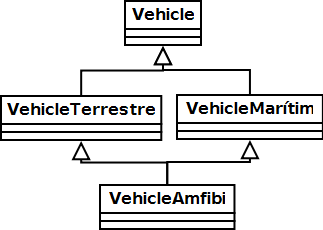
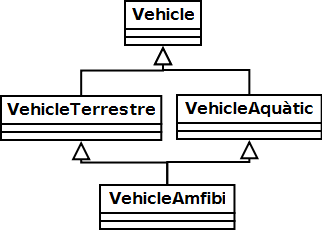
Primera revisió final.

diff --git a/memoria/introduccio.tex b/memoria/introduccio.tex
@@ -2,58 +2,81 @@
 
 Des de l'aparició dels primers videojocs, la seva evolució ha estat sempre emparellada amb una evolució tecnològica constant i, en certs punts, accelerada. Aquesta evolució tecnològica no només consta de millores en el rendiment i qualitat de cada joc sinó que, a més, s’han aconseguit generalitzar solucions i aplicar la tecnologia d’un videojoc a d'altres i fins i tot crear eines que permeten el desenvolupament de jocs a partir d'elles.
 
-Si mirem aquesta evolució des de més a prop, veiem com al principi els videojocs eren evolucions d'altres jocs típics de bar, màquines escurabutxaques com el pinball serviren d'inspiració per a crear els primers videojocs comercials, amb un model de negoci molt semblant. Posteriorment, la necessitat de crear grans quantitats de jocs va obligar als desenvolupadors a crear màquines que poguessin executar més d'un joc i així abaratir costos i finalment, amb l'arribada dels ordinadors personals i les consoles de sobretaula, es comença a desenvolupar un mercat per a jocs sobre plataformes genèriques.
+Si mirem aquesta evolució des de més a prop, veiem com al principi els videojocs eren evolucions d'altres jocs típics de bar. Màquines escurabutxaques com el pinball serviren d'inspiració per a crear els primers videojocs comercials, amb un model de negoci molt semblant. Posteriorment, la necessitat de crear grans quantitats de jocs va obligar als desenvolupadors a crear màquines que poguessin executar més d'un joc i així abaratir costos. Tot això passava sobretot a la dècada dels setanta i principis dels vuitanta. Però finalment, amb l'arribada dels ordinadors personals i les consoles de sobretaula, es comença a desenvolupar un mercat per a jocs sobre plataformes genèriques.
 
-A poc a poc van apareixent els motors gràfics - programes o mòduls encarregats del renderitzat d'un joc o d'un programa amb gràfics 2D o 3D - o fins i tot motors de joc - una plataforma per desenvolupar-hi un joc a sobre -. En un principi aquests motors s'utilitzaven dintre de la mateixa companyia que el creava. Per exemple LucarArts creà {SCUMM} ({Script Creation Utility for Manic Mansion}) \citep{WikiScumm} a l'hora que creava la seva aventura gràfica de "Point \& Click" Manic Mansion (1987). Aquest mateix programa fou utilitzat després en d'altres jocs com Indiana Jones i l'Última Creuada, LOOM, El Dia del Tentacle i tres jocs de la saga Monkey Island (fins al 1998).
+A poc a poc van apareixent els motors gràfics - programes o mòduls encarregats del renderitzat d'un joc o d'un programa amb gràfics 2D o 3D - o fins i tot motors de joc - una plataforma per desenvolupar-hi un joc a sobre -. En un principi aquests motors s'utilitzaven dintre de la mateixa companyia que el creava. Per exemple LucasArts creà {SCUMM} ({Script Creation Utility for Manic Mansion}) \citep{WikiScumm} a l'hora que creava la seva aventura gràfica de "Point \& Click" Manic Mansion (1987). Aquest mateix programa fou utilitzat després en d'altres jocs com Indiana Jones i l'Última Creuada, LOOM, El Dia del Tentacle i tres jocs de la saga Monkey Island (fins al 1998).
 
-Un pas més endavant el va dur Id Software amb el seu {\em id Tech}  \citep{WikiScumm}. Aquest motor - i les seves evolucions - no només es feu servir per fer jocs com Doom (1993) i Doom II (1994) d'Id Software, sinó que es va vendre a altres companyies per a fer altres jocs, tot i que aquests jocs serien molt semblants al Doom original, com serà el Half-Life(1998) basat en el Quake engine, una evolució de l'{\em id Tech}. Posteriorment fins i tot hi va haver companyies que basaven el seu negoci no en vendre jocs, sinó en vendre motors a altres companyies que els fessin servir; és doncs l'aparició definitiva dels motors com a Middleware.
+Un pas més endavant el va dur Id Software amb el seu {\em id Tech}  \citep{WikiScumm}. Aquest motor - i les seves evolucions - no només es feu servir per fer jocs com Doom (1993) i Doom II (1994) d'Id Software, sinó que es va vendre a altres companyies per a fer altres jocs, tot i que aquests jocs serien molt semblants al Doom original, com serà el Half-Life (1998) basat en el Quake engine, una evolució de l'{\em id Tech}. Posteriorment fins i tot hi va haver companyies que basaven el seu negoci no en vendre jocs, sinó en vendre motors a altres companyies que els fessin servir; és doncs l'aparició definitiva dels motors com a Middleware.
 
-Paral·lelament a l'evolució tecnològica ja esmentada, la metodologia de desenvolupament i els mateixos llenguatges de programació han anat evolucionant. L'evolució més important fou quan es va passar de programar bàsicament en {\bf C} a {\bf C++}. El canvi de paradigma, però, s'ha demostrat difícil i, tot i que l'ús de la metodologia orientada a objectes és predominant a quasi totes les àrees d'un motor, encara n'hi ha alguna on porta problemes.
-
-El cas més important, i el que en aquest treball ens centrarem és en la definició de la lògica d'un joc.
-
-\section{Evolució en les mecàniques dels jocs}
-
-Les lògiques dels jocs, també conegudes com a mecàniques, són les normes que defineixen els jocs. Aquestes normes estan compostes per diversos elements, que interactuen entre ells de forma més o menys complexa. En aquesta secció explicarem l'evolució que han anat prenent els mètodes que tenen els desenvolupadors per a definir aquestes normes; des d'una aproximació jeràrquica i intuïtiva, agrupant els elements per característiques comunes, fins a una de menys intuïtiva, però més flexible, on cada comportament es defineix de forma independent i cada element agafa aquells comportaments que li interessen.
-
-\subsection{L'aproximació clàssica}
-
-Quan un programador de {C++} o de qualsevol llenguatge orientat a objectes s'asseu davant el desafiament de programar la lògica d'un joc, trenca els diferents objectes que el poblen i els distribueix en diferents grups i subgrups, després en programa les funcionalitats comunes i acaba creant una jerarquia de classes que defineixen tots els objectes i les seves interrelacions. 
-
-Aquesta aproximació sembla senzilla, però acaba comportant diversos problemes. Com s'explica a \citep[p.~719]{Gregory09}, les jerarquies massa grans d'objectes pateixen dels següents inconvenients:
+Paral·lelament a l'evolució tecnològica ja esmentada, la metodologia de desenvolupament i els mateixos llenguatges de programació han anat evolucionant. L'evolució més important fou quan es va passar de programar bàsicament en {\bf C} a {\bf C++}. El canvi de paradigma, però, s'ha demostrat difícil i, tot i que l'ús de la metodologia orientada a objectes és predominant a quasi totes les àrees d'un motor, encara n'hi ha alguna on s'ha demostrat no ser la millor solució. A la figura \ref{fig:EsquemaEngine} es mostren algunes parts d'un {\em Engine} i com el módul de lògica usa els altres. D'aquesta manera un pot imaginar-se un {\em Engine} com a un proveïdor de serveis per al módul de lògica.
 
 
 \begin{figure}
   \centering
-  \includegraphics[width=0.58\linewidth]{./img/RombeMort.png}
-  \caption{Diamant de la mort \label{fig:RombeMort}}
+  \includegraphics[width=0.58\linewidth]{./img/EsquemaEngine.png}
+  \caption{Esquema genèric d'un Engine \label{fig:EsquemaEngine}}
 \end{figure}
 
+L'àmbit on més canvis hi ha hagut, en quan a metodologia de desenvolupament, i el que en aquest treball ens centrarem és en la definició de la lògica d'un joc. Les lògiques dels jocs, també conegudes com a mecàniques, són les normes que defineixen els jocs. Aquestes normes estan compostes per diverses peçes: elements interactius i no interactius (com l'escenari del joc, els personatges, {\em attrezzo}, i altres), accions que poden fer els elements interactius i els objectius que té el jugador.
+
+En aquest capítol s'explicarà primer l'evolució històrica en quan a programació de la lògica dels jocs. Seguidament agafarem la mostra que volem implementar i la definirem, i es mostraran alguns exemples de jocs i {\em Engines} que han implementat solucions semblants. Finalment s'esmentaràn els objectius d'aquest projecte.
+
+\section{Evolució en les mecàniques dels jocs}
+
+ En aquesta secció s'explicarà l'evolució que han anat prenent els mètodes que tenen els desenvolupadors per a definir aquestes normes; des de l'aproximació clàssica, jeràrquica i intuïtiva, agrupant els elements per característiques comunes, seguida d'un replantejament estructural, on se segueix una arquitectura menys intuitiva, però més flexible, sense definir jerarquies de elements, amb característiques comunes, sinó definint cada característica per separat i després deixant que cada element agrupi les que necessita. I finalment presentant una arquitectura que trenca per complet l'aproximació clàssica sense deixar de ser una evolució del pas anterior.
+
+\subsection{L'aproximació clàssica}
+
+Quan un programador de {C++} o de qualsevol llenguatge orientat a objectes s'asseu davant el desafiament de programar la lògica d'un joc, llista les diferents entitats del joc (escenari, jugador, enemics, armes, etc\ldots) i els distribueix en diferents grups i subgrups. Després en programa les funcionalitats comunes i acaba creant una jerarquia de classes que defineixen totes les entitats i les seves interrelacions. 
+
+Aquesta aproximació sembla senzilla, però acaba comportant diversos problemes. Com s'explica a \citep[p.~719]{Gregory09}, les jerarquies de classes massa grans pateixen dels següents inconvenients:
+
+
+
+
 \begin{itemize}
-  \item {\bf Manteniment} \hfill \\
-    A més profunda és una classe dintre d'una jerarquia, més costa d'entendre, mantenir i modificar, ja que s'ha d'entendre tant ella com totes les seves classes superiors. Així com modificar una classe mare pot comportar problemes  a classes derivades molt difícils de detectar i arreglar.
+  \item {\bf Manteniment:} A més profunda és una classe dintre d'una jerarquia, més costa d'entendre, mantenir i modificar, ja que s'ha d'entendre tant ella com totes les seves classes superiors. Per exemple el fet de modificar una funció virtual aparentment inocua, pot comportar trencar suposicions que faci alguna de les classes mare, cosa que du a errors subtils i difícils de detectar.
     
-  \item {\bf Impossibilitat de descriure taxonomies multi-dimensionals} \hfill \\
-    Crear classes en forma d'arbre és molt pràctic i sobretot intuïtiu, especialment on a cada nivell es fan separacions respecte un criteri per cada nivell. El problema seriós arriba quan ens trobem amb classificacions que no havíem previst inicialment. Per exemple podríem haver classificat 2 tipus de vehicles: vehicles terrestres i marítims, per posteriorment haver d'afegir vehicles amfibis, repte que ens porta als 2 següents punts.
+  \item {\bf Impossibilitat de descriure taxonomies multi-dimensionals:} Crear classes en forma d'arbre és molt pràctic i sobretot intuïtiu, especialment on a cada nivell es fan separacions respecte un criteri per cada nivell. Inicialment, ens plantejem una llista de grups a classificar: Vehicles contra Animals, Terrestres contra Marítims, etc\ldots Aqui se'ns obra el primer dilema: Classifiquem primer entre animals i vehicles, o entre terrestres o marítims? Però el problema seriós arriba quan ens trobem amb classificacions que no havíem previst inicialment. Per exemple podríem havent classificat vehicles terrestres i acuàtics (figura \ref{fig:Vehicles}), i posteriorment podem haver d'afegir vehicles amfibis, repte que es pot intentar solucionar de les següents maneres:
+  
+  \begin{figure}
+    \centering
+    \includegraphics[width=0.58\linewidth]{./img/Vehicles.png}
+    \caption{Vehicles classificats en terrestres i aquàtics \label{fig:Vehicles}}
+  \end{figure}
+  
     \begin{enumerate}
-      \item {\bf Herència múltiple. El diamant de la mort} \hfill \\
-        La solució naïf del problema anterior seria crear la classe {\em VehicleAmfibi} hereva tant de {\em VehicleTerrestre} com de {\em VehicleMarítim}, cosa que ens porta directament a l'herència múltiple. Com s'explica a \cite[p.~2]{Martin97}, l'herència múltiple causa diversos problemes, moltes vegades més grans que aquells que soluciona. En aquest cas veuríem que la classe {\em VehicleAmfibi} heretaria dues vegades {\em Vehicle}, amb els problemes d'ambigüitat que això duria (figura \ref{fig:RombeMort}).
+      \item {\bf Crear una nova classe hereva de vehicle \"{}VehicleAmfibi\"{}:} Solució òptima a primer cop d'ull, però comporta duplicar codi, ja que el codi necessàri per fer que un vehicle vagi per terra ja es troba a {\em VehicleTerrestre}, per exemple. Això ens du a intentar la segona solució.
+      
+      \item {\bf Herència múltiple. El diamant de la mort:} La solució naïf del problema anterior seria crear la classe {\em VehicleAmfibi} hereva tant de {\em VehicleTerrestre} com de {\em VehicleAquàtic}, cosa que ens porta directament a l'herència múltiple. Com s'explica a \cite[p.~2]{Martin97}, l'herència múltiple causa diversos problemes, moltes vegades més grans que aquells que soluciona. Per exemple en aquest cas veuríem que la classe {\em VehicleAmfibi} heretaria dues vegades {\em Vehicle}, amb els problemes d'ambigüitat que això duria (figura \ref{fig:RombeMort}).
         
-      \item {\bf Classes Mix-in} \hfill \\
-        Una altra solució per crear taxonomies multi-dimensionals és crear un seguit de classes que aportin funcionalitat a diversos llocs de la jerarquia. Aquestes classes, per funcionar bé, cal que siguin heretades només per les fulles i que cap d'elles tingui una classe mare. Per tant diríem que una classe només pot tenir un "avi" en qualsevol cas. Aquesta solució comporta, sobretot, molta disciplina i acaba resultant en una solució molt semblant a "agregar" funcionalitat en comptes d'heretar-la.
         
+      \begin{figure}
+        \centering
+        \includegraphics[width=0.58\linewidth]{./img/RombeMort.png}
+        \caption{Diamant de la mort \label{fig:RombeMort}}
+      \end{figure}
+        
+      \item {\bf Classes Mix-in:} Una altra solució per crear taxonomies multi-dimensionals és crear un seguit de classes que aportin funcionalitat a diversos llocs de la jerarquia. Aquestes classes, per funcionar bé, cal que siguin heretades només per les fulles i que cap d'elles tingui una classe mare. Per tant diríem que una classe només pot tenir un "avi" en qualsevol cas. Aquesta solució comporta, sobretot, molta disciplina i acaba resultant en una solució molt semblant a "agregar" funcionalitat en comptes d'heretar-la (figura \ref{fig:MixIn}).
+        
+      \begin{figure}
+        \centering
+        \includegraphics[width=0.58\linewidth]{./img/MixIn.png}
+        \caption{Esquema amb classes \"{}Mix-In\"{} \label{fig:MixIn}}
+      \end{figure}
     \end{enumerate}
-  \item {\bf Efecte bombolla} \hfill \\
-    A l'inici del disseny, les classes arrels - les més pròximes a l'inici de la jerarquia - són dissenyades inicialment amb poca funcionalitat. A mesura que avança el projecte, i davant del desig de compartir codi i, sobretot, no duplicar-lo, molta funcionalitat va pujant a la jerarquia fins que troba el \"{}comú denominador\"{}. A poc a poc, les classes arrels es van fent pesades fins que contenen la major part de funcionalitat, que les seves filles s'han d'encarregar d'activar correctament. Col·lateralment això fa que moltes classes acabin tenint una funcionalitat i unes variables que realment no necessiten, fent que el programa usi més memòria de la necessària, un problema especialment greu en jocs de consola, on la memòria és un bé molt escàs.
     
+  \item {\bf Efecte bombolla:} A l'inici del disseny, les classes arrels - les més pròximes a l'inici de la jerarquia - són dissenyades inicialment amb poca funcionalitat. A mesura que avança el projecte, i davant del desig de compartir codi (i sobretot, no duplicar-lo), molta funcionalitat va pujant a la jerarquia fins que troba el \"{}comú denominador\"{}. A poc a poc, les classes arrels es van fent pesades fins que contenen la major part de funcionalitat, que les seves filles s'han d'encarregar d'activar correctament. Col·lateralment això fa que moltes classes acabin tenint una funcionalitat i unes variables que realment no necessiten, fent que el programa usi més memòria de la necessària, un problema especialment greu en jocs de consola, on la memòria és un bé molt escàs.
+    
+    
+  
 \end{itemize}
 
-Per a més informació sobre els defectes d'aquesta estructura, consultar \cite{Wilson02}.
+Per a més informació sobre els defectes de l'aproximació clàssica, consultar \cite{Wilson02}.
 
 \subsection{De l'{\em és-un} al {\em conté-un}}
 
-
-La primera millora, o petit canvi, que es proposa respecte l'aproximació anterior, és agregar la funcionalitat en comptes d'heretar-la. Si volem crear un objecte amb moviment, que es renderitzi, que col·lisioni i que s'animi - un enemic, per exemple -, abans heretaríem d'una jerarquia on, més amunt o més avall, estigui implementada tota aquesta funcionalitat (figura \ref{fig:EnemicHerencia}). Ara, però, el que hauríem de fer és simplement crear un seguit de propietats a la classe {\em Enemic} que apuntin a instàncies d'altres classes que ens aportin cada una la funcionalitat que busquem (figura \ref{fig:EnemicAgregacio}).
+La primera millora, o petit canvi, que es proposa respecte l'aproximació anterior, és agregar la funcionalitat en comptes d'heretar-la. Si es vol crear un objecte amb moviment, que es renderitzi, que col·lisioni i que s'animi - un enemic, per exemple -, en l'aproximació clàssic la classe que representa aquest objecte heretaría d'una jerarquia on, més amunt o més avall, estigui implementada tota aquesta funcionalitat (figura \ref{fig:EnemicHerencia}). La millora proposada consta de fer que aquesta classe contingui aquelles que ens aportin cada una la funcionalitat que busquem (figura \ref{fig:EnemicAgregacio}).
 
 \begin{figure}
   \centering
@@ -65,73 +88,89 @@ La primera millora, o petit canvi, que es proposa respecte l'aproximació anteri
 
 Dintre d'aquest esquema, les classes que aporten funcionalitat són moltes vegades anomenades {\em Components} o {\em objectes-servidors}, ja que són les que componen els objectes finals.
 
-Aquesta aproximació millora en certs aspectes l'anterior, però encara té alguns inconvenients. Es tendeix a tenir una classe {\em GameObject} amb un punter a cada tipus de component, al qual se li afegeixen o treuen els components segons convingui - un {\em Enemic} contindrà el component {\em ObjecteAnimat} mentre que una {\em Habitació} no -; cosa que comporta primer el problema de qui s'ha d'encarregar de destruir els components - evident fins que arribes al punt que vols substituir un component en temps d'execució - i després la pèrdua d'eficiència que comporta haver de comprovar constantment si una instància conté o no cada component per fer-ne operacions.
+Aquesta aproximació millora en certs aspectes l'anterior, com es mostra més endavant a la taula \ref{tab:comparacioFilosofies}, però encara té alguns inconvenients. Es tendeix a tenir una classe {\em GameObject} amb un punter a cada tipus de component, al qual se li afegeixen o treuen els components segons convingui - un {\em Enemic} contindrà el component {\em ObjecteAnimat} mentre que una {\em Habitació} no -; cosa que comporta primer el problema de qui s'ha d'encarregar de destruir els components - evident fins que arribes al punt que vols substituir un component en temps d'execució - i després la pèrdua d'eficiència que comporta haver de comprovar constantment si una instància conté o no cada component per fer-ne operacions.
 
 Un pas més enllà es troba l'aproximació on cada tipus de {\em Component} implementa una interfície comuna molt bàsica i després el {\em GameObject} simplement conté un array dinàmic que els conté tots, i crida les seves funcions ordenadament. Aquesta aproximació comporta sovint el problema de que els components cal ordenar-los, ja que moltes vegades la seva funcionalitat no és commutativa.
 
-Un últim pas en aquesta línia és eliminar per complet el {\em GameObject} i tenir arrays de components i lligar-los simplement per l'índex; Arrays o una implementació menys costosa en memòria com Taules Hash. Aquesta aproximació sovint anomenada com a {\em Model de Components Pur} guanya sobretot en coherència de cachè. Normalment tots els components d'un tipus s'actualitzen alhora, en estar tots en un array seguits, els {\em misses} de cachè són mínims.
+Un últim pas en aquesta línia és eliminar per complet el {\em GameObject} i tenir arrays de components i lligar-los simplement per l'índex; Arrays o una implementació menys costosa en memòria com Taules Hash. Aquesta aproximació sovint anomenada com a {\em Model de Components Pur} \citep{Martin07} guanya sobretot en localitat de memòria. Normalment tots els components d'un tipus s'actualitzen alhora, en estar tots seguits en un array, el programa troba totes les dades juntes i s'executa més ràpidament que si les dades estiguéssin dispersades.
 
 Finalment, un gran avantatge d'un sistema d'aquest tipus és, com s'explica a \citep{Leonard99}, la possibilitat de, un cop definits els tipus de components i les seves propietats, crear un \"{}editor del joc\"{} que permeti, amb l'ajuda d'una interfície gràfica, crear, manipular, modificar, afegir, treure, etc. objectes i components del món de forma molt senzilla. Una eina d'aquestes característiques disminueix la dependència que hi ha entre dissenyadors i programadors i permet que cada un d'ells pugui fer la seva feina en paral·lel de la forma més eficient possible.
 
 \subsection{De centrar-nos en els objectes, a centrar-nos en les propietats}
 
-L'últim pas, que abstreu totes les idees anteriorment exposades, és trencar totalment l'esquema orientat a objectes. La clau aquí és oblidar que un objecte està format per un seguit de propietats i mètodes, i quedar-se només amb les propietats. D'aquesta manera podem crear una taula per cada tipus de component que un objecte del joc pot tenir, i fer-ne una columna per cada propietat i una fila per cada objecte que el contingui, tenint cada objecte del joc, el que abans coneixíem com un {\em GameObject}, un identificador únic.
+L'últim pas, que abstreu totes les idees anteriorment exposades, és trencar totalment l'esquema orientat a objectes. Aquest canvi s'inspira en part en l'arquitectura Model-Vista-Controlador. Concretament n'agafa el concepte de que cal separar les dades de la lògica que les controla. Si en féssim una base de dades hauríem de primer llistar tots els tipus de propietats que una entitat del joc pot tenir; de cada element d'aquesta llista l'anomenarem {\bf Component}, ja que les esmentades entitats seràn formades a partir d'aquests. D'aquesta manera podem crear una taula per cada tipus de component que una entitat del joc pot tenir, i fer-ne una columna per cada propietat i una fila per cada objecte que el contingui, tenint cada objecte del joc, el que abans coneixíem com un {\em GameObject}, un identificador únic.
 
-Aquesta aproximació no està pas mancada de defectes, i cal tenir-los en compte. El primer d'ells és la dificultat que hi ha d'establir relacions entre les {\em entitats} del joc, ja que no existeix una implementació en sí, d'aquesta entitat. Relacionat amb això hi ha el problema d'inicialitzar aquestes {\em entitats}, que s'ha de fer d'una forma més o menys aliena al mateix sistema. Finalment, el dilema més gran, és decidir on es programa el comportament de les entitats, i hi ha bàsicament 2 solucions, amb les seves variants:
+Aquesta aproximació no està pas mancada de defectes, i cal tenir-los en compte. El primer d'ells és la dificultat que hi ha d'establir relacions entre les {\em entitats} del joc, ja que no existeix una implementació en sí, d'aquesta entitat. Relacionat amb això hi ha el problema d'inicialitzar aquestes {\em entitats}, que s'ha de fer d'una forma més o menys aliena al mateix sistema. Finalment, el dilema més gran, és decidir on es programa el comportament de les entitats. Hi ha bàsicament 2 solucions, amb les seves variants:
 
 \begin{enumerate}
-  \item {\bf Dintre els mateixos components} \hfill \\
-    Cada propietat porta incorporada la seva funcionalitat d'alguna manera. Sigui directament dintre del mateix component, via mètodes en aquest - cosa que retorna a la metodologia orientada a objectes - o via els anomenats {\em sistemes}. Aquests s'encarreguen de recollir aquelles {\em entitats} que reuneixen unes condicions - normalment, tenir un o més components - i actualitzar-los.
+  \item {\bf Dintre els mateixos components:} Cada propietat porta incorporada la seva funcionalitat d'alguna manera. Sigui directament dintre del mateix component, via mètodes en aquest - cosa que retorna a la metodologia orientada a objectes - o via els anomenats {\em sistemes}. Aquests s'encarreguen de recollir aquelles {\em entitats} que reuneixen unes condicions - normalment, tenir un o més components - i actualitzar-los.
     
-  \item {\bf Via components especials} \hfill \\
-    En aquesta variant normalment es defineix un tipus especials que simplement conté un apuntador - o referència equivalent - a un script que implementi una interfície coneguda i que defineixi el comportament d'aquesta entitat.
+  \item {\bf Via components especials:} En aquesta variant normalment es defineix un tipus especials que simplement conté un apuntador - o referència equivalent - a un script que implementi una interfície coneguda i que defineixi el comportament d'aquesta entitat.
     
 \end{enumerate}
 
-Si ara ens centrem en els problemes que tenia l'aproximació clàssica i ho comparem amb aquesta nova aproximació, ens trobem amb les següents millores:
+Finalment podem veure a la taula \ref{tab:comparacioFilosofies} una comparació de les característiques de cada arquitectura.
 
-\begin{itemize}
-  \item {\bf Manteniment} \hfill \\
-    En aquest cas, els problemes de manteniment no s'han esvaït del tot, sinó que s'han traslladat. Ara no hi ha cap problema per entendre jerarquies complexes, doncs aquestes s'han esvaït, i cada funcionalitat s'ha separat, així que és més fàcil de comprovar si funcionen correctament. Però la combinació d'aquestes i les seves interconnexions poden dur més d'un problema difícil de detectar.
-    
-  \item {\bf Impossibilitat de descriure taxonomies multi-dimensionals} \hfill \\
-    Aquest problema queda completament resolt, doncs cada entitat agafa la funcionalitat que vol i no està obligada a pertànyer a cap grup. Mirant el problema descrit anteriorment de tenir definits vehicles terrestres i vehicles aquàtics, i voler-ne afegir d'amfibis, ho solucionaríem de la següent manera:
-    \begin{enumerate}
-      \item Definim com a vehicle terrestre tota aquella entitat que contingui el component \"{}vehicle terrestre"
-      \item Definim com a vehicle aquàtic tota aquella entitat que contingui el component \"{}vehicle aquàtic\"{}.
-      \item Definim com a vehicle amfibi tota aquella entitat que contingui els components \"{}vehicle aquàtic\"{} i  \"{}vehicle terrestre\"{}.
-    \end{enumerate}
-    
-    Possiblement calgui modificar els components \"{}vehicle aquàtic\"{} i  \"{}vehicle terrestre\"{} tals que puguin operar a l'hora, però aquesta modificació no serà molt complexa.
-    
-  \item {\bf Efecte bombolla} \hfill \\
-    Aquest problema desapareix totalment. Si detectem que 2 o més components tenen funcionalitat comuna, el més assenyat en aquest cas és crear un nou component amb aquesta funcionalitat i treure-la dels anteriors. Així només hem de vigilar que les entitats tinguin tots els components que necessiten i mai una entitat tindrà més informació o funcionalitat de la estrictament necessària.
-    
-\end{itemize}
+\begin{table}
+  \begin{tabular}{ | p{0.15\textwidth} | p{0.20\textwidth} | p{0.20\textwidth} | p{0.40\textwidth} | }
+    \hline
+     &
+     {\bf Manteniment} &
+     {\bf Impossibilitat de descriure taxonomies multi-dimensionals} &
+     {\bf Dependències externes} \\
+     \hline
+     
+     {\bf Aproximació clàssica} &
+     A més complexitat del sistema, més difícil és de modificar o ampliar. &
+     Un cop s'han decidit quins atributs seràn diferenciadors en cada punt de la gerarquia, canviar-los porta problemes. &
+     Si volem modificar una dependència (per exemple, canviar la llibreria de física) caldrà modificar aquelles classes que encapsulin la física i adaptar totes aquelles hereves i en conseqüència cal fer molts canvis al programa, especialment si hi ha entitats que no fan servir aquesta característica però la duen incorporada, degut a l'efecte bombolla.\\
+     \hline
+     
+     {\bf Composició de Propietats} &
+     La complexitat vé relacionada amb la quantitat d'interrelacions entre les propietats, no amb el nombre total de propietats. &
+     Una entitat pot ser reclassificada en qualsevol moment, i l'ampliació de classificacions no afecta a les ja existents. &
+     A l'hora de modificar una llibreria externa només cal tocar els components que la necessitin i, si hi ha un canvi prou gran, les entitats que els continguin. \\
+     \hline
+     
+     {\bf Separar les dades de la Lògica} &
+     El sistema té una arquitectura més complexa, però al minimitzar les dependències és la més flexible. &
+     Exactament igual que en el cas anterior. &
+     Al dissenyar les dades del joc de forma independent de la seva implementació, aquesta es pot canviar sense més conseqüències. \\
+     \hline
+  \end{tabular}
+  \caption{Comparació entre diferents arquitectures. \label{tab:comparacioFilosofies}}
+\end{table}
 
-\subsection{Definició}
+\section{Sistema d'Entitats}
 
-Finalment diríem que un sistema d'entitats és aquell {\bf sistema} que regeix el comportament d'un seguit d'{\bf entitats}, definides a partir d'uns {\bf components}. Cada entitat té associat com a màxim un component de cada tipus. El comportament d'aquestes entitats ve únicament regit per quins {\bf components} té associats i les dades que aquests contenen.
+En aquesta secció donarem una definició, la nostra, del que és un sistema d'entitats. Tot seguit, es mostraran diferens implementacions que s'han fet, tant de Videojocs com d'{\em Engines}.
 
-\section{Implementacions}
+\subsection{Definicions}
+
+Un sistema d'entitats està compost de diferents elements que cal entendre.
+
+En primer lloc, les {\bf entitats}. Una {\bf entitat} en un videojoc és cada element que d'alguna manera apareix en el videojoc de forma concreta. Per exemple, l'escenari del videojoc, l'{\em avatar} del jugador, els enemics, les armes, els objectes que el jugador recull. Si féssim un llistat exhaustiu del joc dels escacs, donaríem les peces, el taulell i, si s'escau, el rellotge que marca el temps límit.
+
+Seguidament, els {\bf components} són les característiques que defineixen les {\em entitats}. La vida d'un personatge, el model 3D de l'escenari i la velocitat d'un cotxe en són exemples, però també n'hi ha de més abstractes, com un component que defines que un objecte fa so, o un altre que el marca com a {\em vehicle}. En resum, totes les característiques que les {\bf entitats} poden tenir s'agrupen en {\bf components}.
+
+Finalment definim un {\bf sistema d'entitats} aquell {\bf sistema} que regeix el comportament d'un seguit d'{\bf entitats}, definides a partir d'uns {\bf components}. Cada entitat té associat com a màxim un component de cada tipus. El comportament d'aquestes entitats ve únicament regit per quins {\bf components} té associats i les dades que aquests contenen.
+
+\subsection{Implementacions}
 
 En aquesta secció farem un repàs de diverses implementacions de sistemes d'entitats que s'han fet anteriorment, analitzarem les seves característiques i els avantatges i inconvenients d'alguns.
 
 Començarem amb un anàlisi d'alguns jocs que han seguit aquesta aproximació, seguidament parlarem de motors de jocs i finalment parlarem del nostre motor, i quines característiques tindrà que el diferenciïn dels anteriors.
 
-\subsection{Jocs Concrets}
+\subsection{Jocs}
 
-És difícil de rastrejar quins jocs tenen una estructura d'agregació en comptes d'herència, ja que moltes vegades no es fa pública la implementació d'aquestos. Però gràcies als anomenats {\em postmortemps} (Documents que s'escriuen un cop finalitzat un joc, on se n'analitza el desenvolupament, es busquen quines coses han anat bé i quines no i s'intenta fer auto-crítica de cara a millorar el desenvolupament dels següents projectes) en tenim accés a alguns.
+És difícil de rastrejar quins jocs tenen una estructura d'agregació en comptes d'herència, ja que moltes vegades no es fa pública la implementació d'aquestos. Però gràcies als anomenats {\em postmortemps} (Documents que s'escriuen un cop finalitzat un joc, on se n'analitza el desenvolupament, es busquen quines coses han anat bé i quines no i s'intenta fer auto-crítica de cara a millorar el desenvolupament dels següents projectes) podem tenir accés a la informació d'alguns jocs. A continuació una breu mostra d'alguns d'aquests, amb la referència d'on se'n poden trobar més detalls.
 
 \begin{description}
-  \item[Thief] \citep{Leonard99} \hfill \\
-    Potser un dels exemples més antics, encara que segurament no el més antic, ja que el sistema és sempre una evolució d'algun motor usat anteriorment. Basa la seva força en facilitat d'edició mitjançant GUIs i una alta versatilitat, desenvolupant 2 jocs en paral·lel bona part del temps ({\em Thief} i {\em System Shock 2}). Es destaca que en aquests jocs no hi ha cap jerarquia d'objectes en el codi, sinó que tota es crea a partir de dades.
+  \item[Thief] \citep{Leonard99} Potser un dels exemples més antics, encara que segurament no el més antic, ja que el sistema és sempre una evolució d'algun motor usat anteriorment. Basa la seva força en facilitat d'edició mitjançant GUIs i una alta versatilitat, desenvolupant 2 jocs en paral·lel bona part del temps ({\em Thief} i {\em System Shock 2}). Es destaca que en aquests jocs no hi ha cap jerarquia d'objectes en el codi, sinó que tota es crea a partir de dades.
     
-  \item[Tony Hawk's Pro Skater 3] \citep{West07} \hfill \\
-    En aquest exemple veiem la necessitat d'una companyia de treure jocs amb una alta freqüència (un a l'any) i com, a poc a poc evolucionant cap a un sistema d'entitats fetes amb agregació de components. El canvi de jerarquies en el codi a objectes creats via dades fou lent i al principi contraproduent, però 2 anys després de començar el canvi els resultats es feren evidents, on el joc va guanyar en velocitat d'execució i els creadors en temps de producció.
+  \item[Tony Hawk's Pro Skater 3] \citep{West07} En aquest exemple veiem la necessitat d'una companyia de treure jocs amb una alta freqüència (un a l'any) i com, a poc a poc evolucionant cap a un sistema d'entitats fetes amb agregació de components. El canvi de jerarquies en el codi a objectes creats via dades fou lent i al principi contraproduent, però 2 anys després de començar el canvi els resultats es feren evidents, on el joc va guanyar en velocitat d'execució i els creadors en temps de producció.
     
-  \item[Dungeon Siege] \citep{Bilas02} \hfill \\
-    Potser dels més coneguts, sinó el més referenciat, Dungeon Siege anava equipat amb un sistema de components que permetia crear aquests components tant en {\em C++} com amb {\em Skirt}, un llenguatge propi del joc. Aquesta flexibilitat, i una aproximació a les dades molt similar a una Base de Dades Relacional va cridar molt la atenció a la GDC de San José, potser quan els sistemes d'entitats van començar a agafar nom a la indústria.
+  \item[Dungeon Siege] \citep{Bilas02} Potser dels més coneguts, sinó el més referenciat, Dungeon Siege anava equipat amb un sistema de components que permetia crear aquests components tant en {\em C++} com amb {\em Skirt}, un llenguatge propi del joc. Aquesta flexibilitat, i una aproximació a les dades molt similar a una Base de Dades Relacional va cridar molt la atenció a la GDC de San José (Un congrés de creadors de videojocs), potser quan els sistemes d'entitats van començar a agafar nom a la indústria.
     
 \end{description}
 
@@ -141,21 +180,17 @@ Començarem amb un anàlisi d'alguns jocs que han seguit aquesta aproximació, s
 Diversos motors de jocs han seguit aquesta filosofia, tant comercials, oberts o híbrids. En repassarem alguns.
 
 \begin{description}
-  \item[Unity] (\url{http://unity3d.com/}) \hfill \\
-    Probablement el motor més ambiciós disponible sota aquesta filosofia. Seguint un model de negoci híbrid, ja que pots fer servir una versió limitada de forma gratuïta i accedir a diverses millores pagant, Unity aporta sobretot un editor molt potent, que permet fer gairebé qualsevol cosa que necessites des del mateix editor i veure com queda al joc quasi en temps real. Aquesta aproximació redueix moltíssim els temps de producció i facilita la feina sobretot als dissenyadors, per la facilitat que dóna a prototipar dissenys.
+  \item[Unity] (\url{http://unity3d.com/}) Probablement el motor més ambiciós disponible sota aquesta filosofia. Seguint un model de negoci híbrid, ja que pots fer servir una versió limitada de forma gratuïta i accedir a diverses millores pagant, Unity aporta sobretot un editor molt potent, que permet fer gairebé qualsevol cosa que necessites des del mateix editor i veure com queda al joc quasi en temps real. Aquesta aproximació redueix moltíssim els temps de producció i facilita la feina sobretot als dissenyadors, per la facilitat que dóna a prototipar dissenys.
     
-  \item[Frostbite Engine] (\url{http://en.wikipedia.org/wiki/Frostbite_Engine}) \hfill \\
-    Motor comercial creat per EA DICE, sucursal sueca d'Electronic Arts, i usat principalment a la saga Battlefield des del 2008.
+  \item[Frostbite Engine] (\url{http://en.wikipedia.org/wiki/Frostbite_Engine}) Motor comercial creat per EA DICE, sucursal sueca d'Electronic Arts, i usat principalment a la saga Battlefield des del 2008.
     
-  \item[DtEntity, Ember, Grease] \citep{EntityWiki} \hfill \\
-    Projectes OpenSource fets en C++, Flash i Python, respectivament. El seu desenvolupament encara no es pot considerar acabat, però contenen força característiques similars, com el desig de ser multi-plataforma i tenir un editor.
+  \item[DtEntity, Ember, Grease] \citep{EntityWiki} Projectes OpenSource fets en C++, Flash i Python, respectivament. El seu desenvolupament encara no es pot considerar acabat, però contenen força característiques similars, com el desig de ser multi-plataforma i tenir un editor.
     
-  \item[TyphonRT] (\url{http://www.typhon4android.org/}) \hfill \\
-    En principi un Sistema d'Entitats similar al que aquí desenvoluparem, però a data de finalitzar aquest projecte encara no s'ha fet públic i s'espera el llançament per al tercer trimestre del 2011. Entre les seves característiques hi ha la programació via Java, compatibilitat amb Android 1.5+ i render via OpenGL/ES.
+  \item[TyphonRT] (\url{http://www.typhon4android.org/}) En principi un Sistema d'Entitats similar al que aquí desenvoluparem, però a data de finalitzar aquest projecte encara no s'ha fet públic i s'espera el llançament per al tercer trimestre del 2011. Entre les seves característiques hi ha la programació via Java, compatibilitat amb Android 1.5+ i render via OpenGL/ES.
   
 \end{description}
 
-\subsection{Objectius del projecte}
+\section{Objectius del projecte}
 
 Tenint en compte quines aproximacions teòriques hi ha, i quines se n'han fet fins ara, s'han decidit marcar un seguit d'objectius a l'hora de desenvolupar un nou projecte d'aquestes característiques, tal que el facin semblant als anteriors però aportant alguna cosa nova:
 
@@ -176,6 +211,5 @@ Tenint en compte quines aproximacions teòriques hi ha, i quines se n'han fet fi
     Veient la evolució actual dels processadors, sembla evident que els futurs programes per aprofitar les capacitats d'aquests han de poder executar tasques en paral·lel. Un dels objectius és minimitzar l'esforç que l'usuari dediqui a aquesta tasca donant el màxim d'elements ja fets.
 \end{itemize}
 
-\section{Estructura de la memòria}
 
-Aquesta memòria consta de 5 parts. Una és aquesta secció, on s'ha introduït el model dels sistemes d'entitats, la seva història i la necessitat de fer-los servir. També s'han tractat els objectius del nostre projecte. A continuació vindrà el {\bf Desenvolupament}, on es tractarà del disseny del llenguatge Quadriga, que ens permetrà definir {\em Components} i {\em Sistemes} així com executar un programa usant-los. També es parlarà de com és l'execució d'un programa així i com està construït tant el compilador com l'intèrpret. Seguidament es veurà l'exemple d'un joc creat a partir de Quadriga i s'analitzarà el rendiment en diversos sentits. Finalment es revisarà el funcionament respecte del disseny inicial i es proposaran millores que s'hi podrien afegir; i els annexos fins i tot hi haurà informació sobre com crear un programa sobre Quadriga, d'on obtenir-ne el codi i fins i tot com col·laborar en la seva millora.
+En el capítol \ref{chap:Desenvolupament} es tractarà del disseny del llenguatge Quadriga, que ens permetrà definir {\em Components} i {\em Sistemes} així com executar un programa usant-los. També es parlarà de com és l'execució d'un programa així i com està construït tant el compilador com l'intèrpret. En el capítol \ref{chap:Resultats} es veurà l'exemple d'un joc creat a partir de Quadriga i s'analitzarà el rendiment en diversos sentits. Finalment, en el capítol \ref{chap:Conclusions} es revisarà el funcionament respecte del disseny inicial i es proposaran millores que s'hi podrien afegir; i els annexos fins i tot hi haurà informació sobre com crear un programa sobre Quadriga, d'on obtenir-ne el codi i fins i tot com col·laborar en la seva millora.

diff --git a/memoria/Desenvolupament.tex b/memoria/Desenvolupament.tex
@@ -1,4 +1,5 @@
 \chapter{Desenvolupament del Projecte}
+\label{chap:Desenvolupament}
 
 L'objectiu del projecte és crear una plataforma per al desenvolupament de videojocs basada en els sistemes d'entitats. Aquesta plataforma ha de permetre la creació de diferents elements, com Components, Sistemes, Prototips, etc., que seran explicats en detall més endavant.
 S'ha decidit que la millor manera de definir aquests elements és la de crear un llenguatge de programació que ho permeti. Aquest llenguatge s'anomenarà Quadriga, en honor a un dels esports amb més renom disputats als Jocs Olímpics clàssics.

diff --git a/memoria/memoria.tex b/memoria/memoria.tex
@@ -5,7 +5,7 @@
 \usepackage[catalan]{babel}
 \usepackage{url}
 \usepackage{hyperref}
-\usepackage{natbib}
+\usepackage[numbers]{natbib}
 \usepackage{wrapfig}
 \usepackage{subfig}
 \usepackage{verbatim}
@@ -37,7 +37,7 @@
 
 % \section{Bibliografia}
 % \input{./bibliography}
-\bibliographystyle{alpha}
+\bibliographystyle{ieeetr}
 \bibliography{referencies}
 \addcontentsline{toc}{chapter}{Bibliografia}
 

diff --git a/memoria/titol.tex b/memoria/titol.tex
@@ -7,7 +7,7 @@
 \includegraphics[width=1.00\textwidth]{./img/logoUAB.png}\\[1cm]    
 
 % Title
-\textsc{\LARGE Quadriga: Creació d'una plataforma de Programació de Sistemes d'Entitats, especialment enfocada al desenvolupament de Videojocs.}\\[1.5cm]
+\textsc{\LARGE Quadriga: Plataforma de Programació en Sistemes d'Entitats, per al desenvolupament de Videojocs.}\\[1.5cm]
 
 
 

diff --git a/memoria/resultats.tex b/memoria/resultats.tex
@@ -1,4 +1,5 @@
 \chapter{Resultats}
+\label{chap:Resultats}
 
   Per tal de comprovar si el sistema funcionava, s'ha provat de fer un joc senzill amb ell, en aquest cas, un clon del Tetris. En aquest capítol es farà un resum del seu desenvolupament i se'n mirarà el rendiment. Se'n pot veure una captura a la figura \ref{fig:ImatgeTetris}.
 

diff --git a/memoria/conclusions.tex b/memoria/conclusions.tex
@@ -1,4 +1,5 @@
 \chapter{Conclusions i Millores}
+\label{chap:Conclusions}
 
 S'ha dissenyat i implementat un {\bf compilador} i un {\bf entorn d'execució} per al prototipatge i/o programació de videojocs. Algunes conclusions del projecte són:
 
